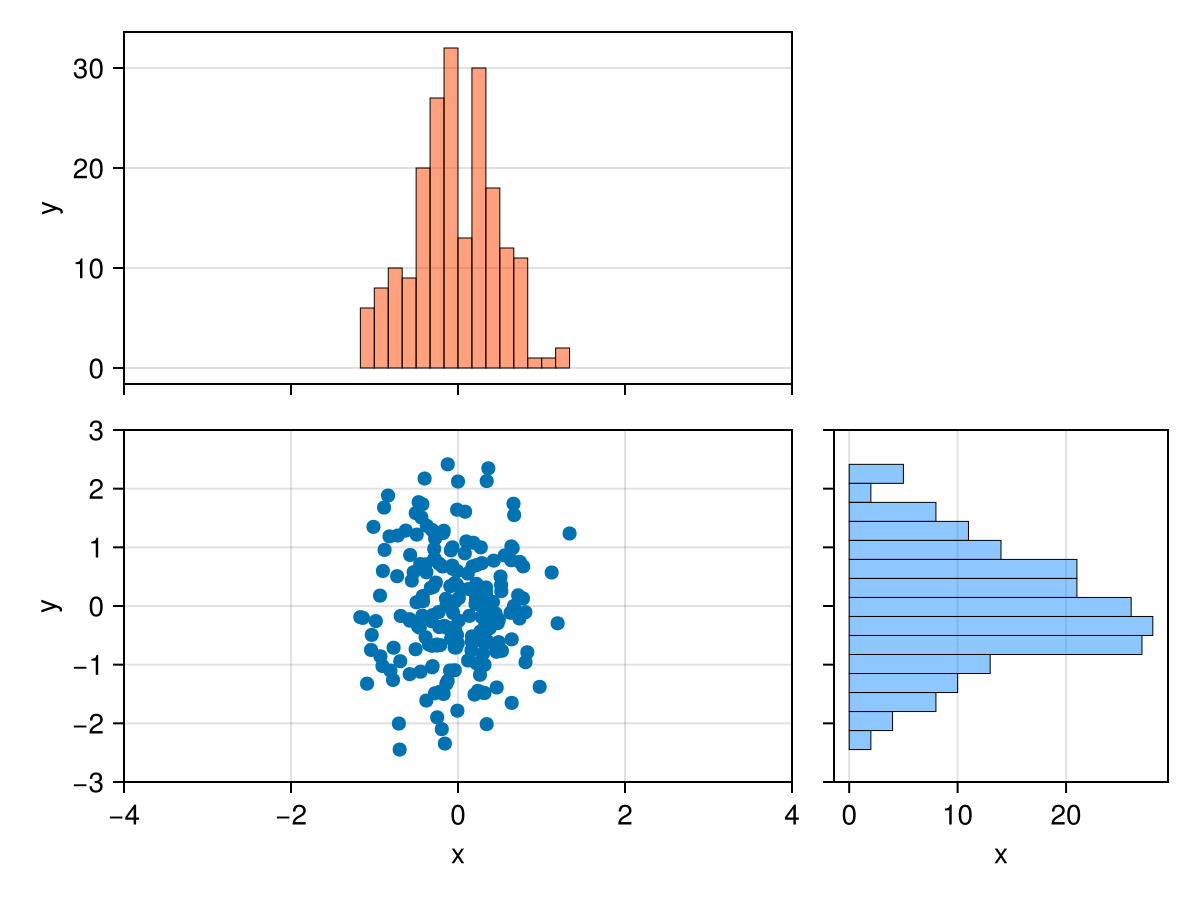
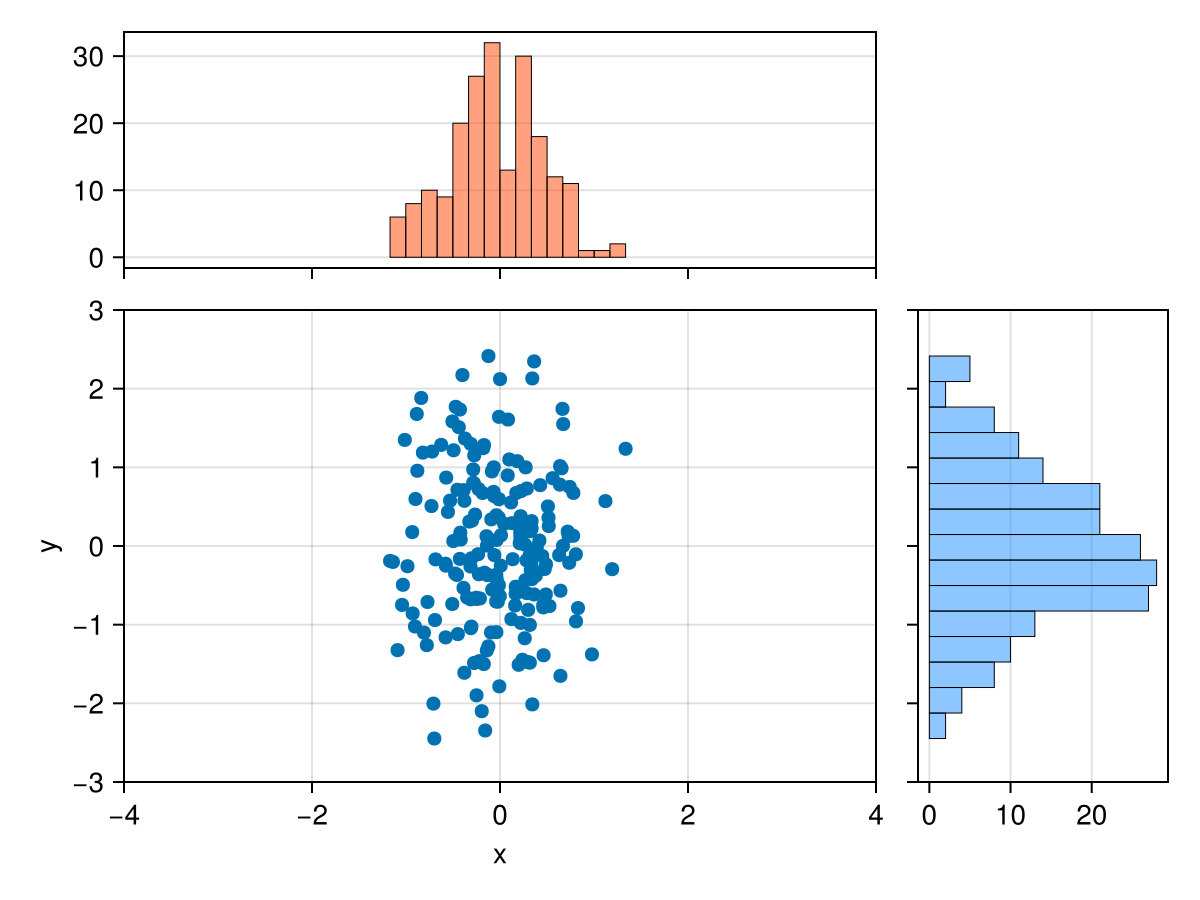
adjust widths

diff --git a/README.md b/README.md
@@ -177,16 +177,14 @@ Random.seed!(123)
 n = 200
 df = DataFrame(x = randn(n) / 2, y = randn(n))
 
-top = ggplot(df) + 
-    geom_histogram(aes(x = :x), color = (:orangered, 0.5), strokewidth = 0.5) + 
-    lims(x = c(-4, 4)) + labs(y = "y") + 
+top = ggplot(df) + geom_histogram(aes(x = :x), color = (:orangered, 0.5), strokewidth = 0.5) + 
+    lims(x = c(-4, 4)) + 
     theme(xticklabelsvisible = false, xgridvisible = false) + 
     beautiful_makie_theme
 
 right = ggplot(df) + 
-    geom_histogram(aes(:y), color = (:dodgerblue, 0.5), 
-        direction = :x, strokewidth = 0.5) + 
-    lims(y = c(-3, 3)) + labs(x = "x") + 
+    geom_histogram(aes(:y), color = (:dodgerblue, 0.5), direction = :x, strokewidth = 0.5) + 
+    lims(y = c(-3, 3)) + 
     theme(yticklabelsvisible = false, ygridvisible = false) +
     beautiful_makie_theme
 
@@ -197,10 +195,11 @@ middle = ggplot(df) + geom_point(aes(:x, :y), size = 10) +
 blank = ggplot() + 
     theme(xticklabelsvisible = false, xgridvisible = false, yticklabelsvisible = false,
         ygridvisible = false, xtickcolor = :transparent, ytickcolor = :transparent, 
-        bottomspinevisible = false, topspinevisible = false, rightspinevisible = false,
-        leftspinevisible = false) + beautiful_makie_theme
+        bottomspinevisible = false, topspinevisible = false, rightspinevisible = false, leftspinevisible = false) + 
+    beautiful_makie_theme
 
-(top/middle) + (blank/right) + plot_layout(widths = c(2, 1))
+top + blank + middle + right + 
+    plot_layout(ncol = 2, nrow = 2, widths = c(3, 1), heights = c(1, 2))
 ```
 
 ![](assets/patchwork.png)
